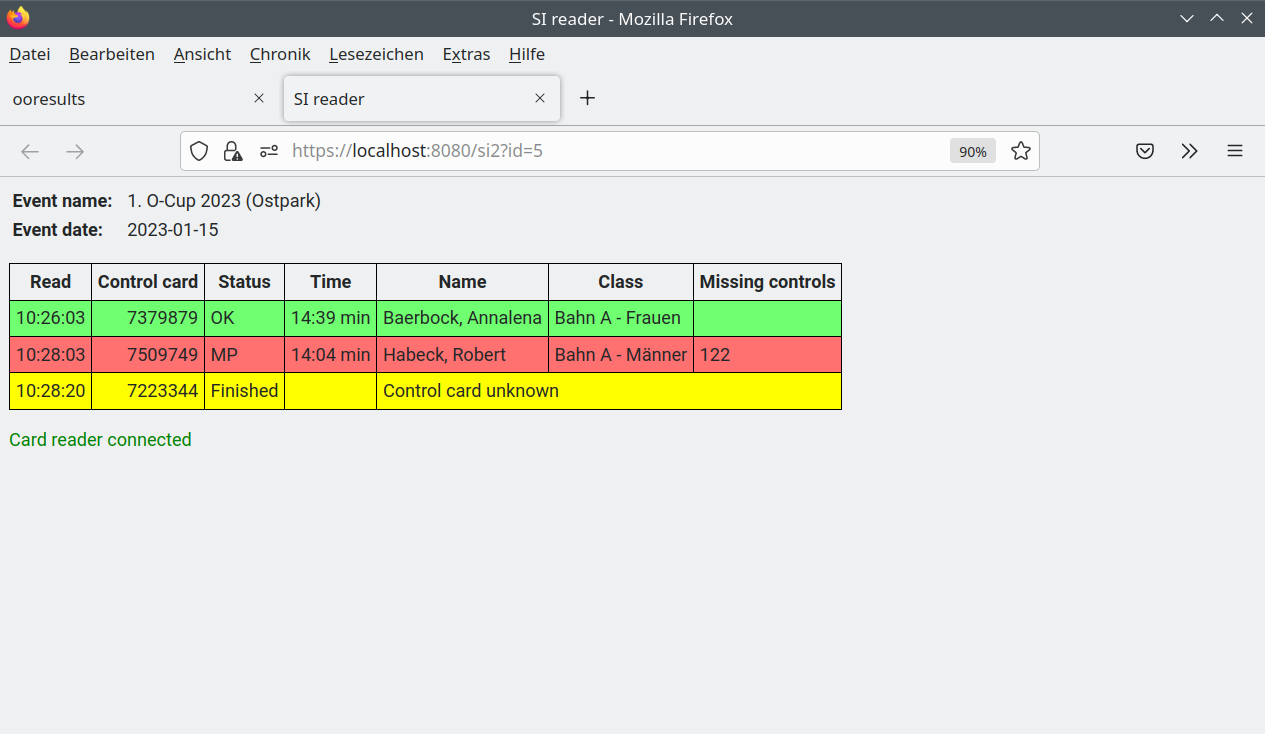
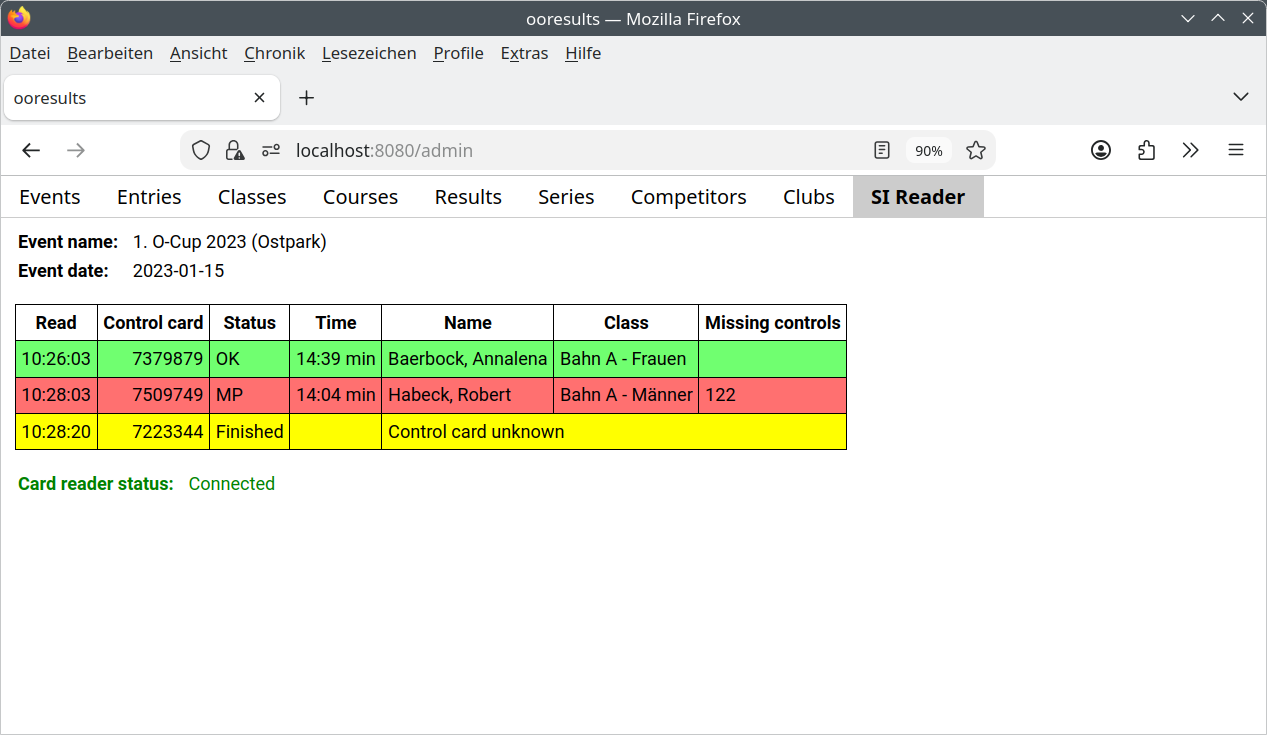
User documentation updated

diff --git a/docs/user/tutorial_2.rst b/docs/user/tutorial_2.rst
@@ -18,8 +18,6 @@ den er mit den von der SI-Card gelesenen Daten zum ooresults-server sendet.
 Der ooresults-server ordnet die Daten dem Wettkampf zu, dessen Schlüssel mit dem empfangenen Schlüssel übereinstimmt
 (oder verwirft die Daten, falls dieser Schlüssel bei keinem Wettkampf angegeben wurde).
 
-.. 2F2C7&KK?s
-
 .. warning::
 
    Der Schlüssel dient nicht nur der Zuordnung der Daten zu einem Wettkampf, sondern auch als Nachweis der Zugangsberechtigung
@@ -51,10 +49,13 @@ kann auch ein einfacher Schlüssel wie z.B "local" verwendet werden.
 Anzeige der gelesenen SI-Card Daten
 -----------------------------------
 
-1. Anklicken des Registerblatts "SI CardReader ..."
+1. Anklicken des Registerblatts "SI Reader"
 
-Es wird ein neuer Tab im Browser geöffnet, in dem alle gelesenen SI-Cards zum selektierten Wettkampf
-seit Serverstart angezeigt werden.
+Es werden alle gelesenen SI-Cards zum selektierten Wettkampf seit Serverstart angezeigt.
+
+.. note::
+
+   Das Registerblatt "SI Reader" kann nur geöffnet werden, wenn ein Wettkampf mit einem Key selektiert ist.
 
 Wird eine SI-Card gelesen, wird automatisch geprüft, ob die gelesene SI-Card Nummer eindeutig einem beim betreffenen Wettkampf
 registriertem Läufer zugeordnet werden kann.
@@ -88,19 +89,19 @@ Dabei bedeuten:
 
   Die Webseite hat keine Verbindung zum ooresults-server.
    
-- Card reader offline
+- Card reader status: Offline
 
   Es wurde noch keine Verbindung zu einem ooresults-reader hergestellt,
   der den Schlüssel des Wettkampfes verwendet.
    
-- Card reader disconnected
+- Card reader status: Disconnected
 
   Es wurde eine Verbindung zu einem ooresults-reader hergestellt,
   der den gleichen Wettkampfschlüssel verwendet.
   Es ist aber noch keine PortIdent-Auslesestation angeschlossen,
   oder die SPORTident-Auslesestation wurde vom ooresults-reader nicht erkannt.
 
-- Card reader connected
+- Card reader status: Connected
 
   Es wurde eine Verbindung zu einem ooresults-reader hergestellt,
   der den gleichen Wettkampfschlüssel verwendet,
@@ -108,7 +109,7 @@ Dabei bedeuten:
 
 .. note::
 
-   Nach einem Neustart des Servers ist das "SI CardReader" Fenster leer.
+   Nach einem Neustart des Servers ist die Tabelle des "SI CardReader" Fenster leer.
 
 Kann die gelesene SI-Card keinem Läufer zugeordnet werden, wird das Ergebnis als neuer Eintrag (ohne Läufernamen)
 auf der Seite "Entries" angezeigt:
@@ -117,8 +118,8 @@ auf der Seite "Entries" angezeigt:
 
 .. note::
 
-   Im Gegensatz zum "SI CardReader" Fenster wird das "Entries" Fenster nicht automatisch beim Einlesen einer SI-Card,
-   sondern erst nach Aufruf der "Reload" Funktion aktualisiert.
+   Im Gegensatz zur "SI CardReader" Liste wird die "Entries" Liste nicht automatisch beim Einlesen einer SI-Card,
+   sondern erst nach Aufruf der "Reload" Funktion (oder beim Wechsel von einem anderen Registerblatt) aktualisiert.
 
 
 
@@ -218,7 +219,7 @@ Verwendung des Selbsteinlesefensters
 ------------------------------------
 
 Die ooresults Software ist für ein selbstständiges Auslesen der SI-Card durch einen Läufer konzipiert,
-.d.h. der Läufer steckt seine SI-Card in die SPORTident-Auslesestation und bekommt
+d.h. der Läufer steckt seine SI-Card in die SPORTident-Auslesestation und bekommt
 sein Ergebnis auf einem (zusätzlichen) Bildschirm angezeigt (hierzu eignet sich auch ein SmartPhone).
 
 Kann die SI-Card keinem Läufer zugeordnet werden, erscheint der Hinweis, sich im Wettkampfzentrum zu melden.

diff --git a/docs/user/tutorial_1.rst b/docs/user/tutorial_1.rst
@@ -34,7 +34,7 @@ in absteigender chronologischer Reihenfolge angezeigt.
 
 .. image:: images/login_3.png
 
-Die Änderung der Wettkampfdaten erfolgt über mehrere Registerblätter:
+Die Anzeige und Änderung der Wettkampfdaten erfolgt über mehrere Registerblätter:
 
 - Events (Wettkämpfe)
 - Entries (Teilnehmer)
@@ -44,11 +44,12 @@ Die Änderung der Wettkampfdaten erfolgt über mehrere Registerblätter:
 - Competitors (Wettkämpfer)
 - Clubs (Vereine)
 - Series (Serien)
+- SI Reader (gelesene SI-Cards)
 
 Die Daten der Registerblätter Events, Competitors, Clubs und Series sind wettkampfunabhängig
 und gelten für alle Wettkämpfe.
 
-Die Daten der Registerblätter Classes, Courses und Results sind wettkampfabhängig.
+Die Daten der Registerblätter Classes, Courses, Results und SI Reader sind wettkampfabhängig.
 Auf diese Registerblätter kann nur zugegriffen werden, wenn zuvor im Registerblatt Events ein Wettkampf selektiert wurde.
 Die angezeigten Daten beziehen sich dann auf diesen Wettkampf.
 
